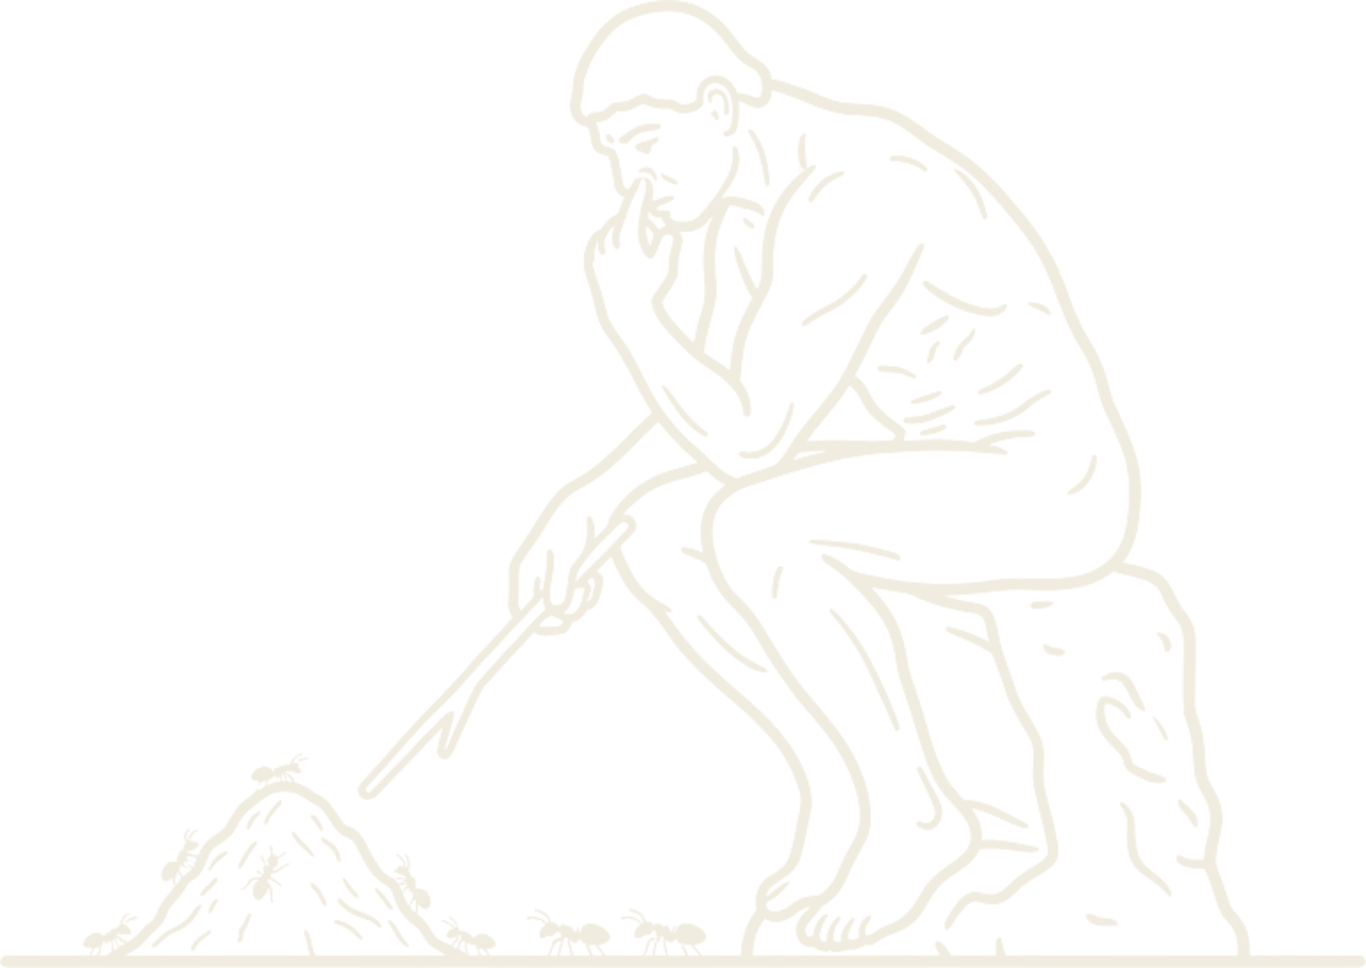
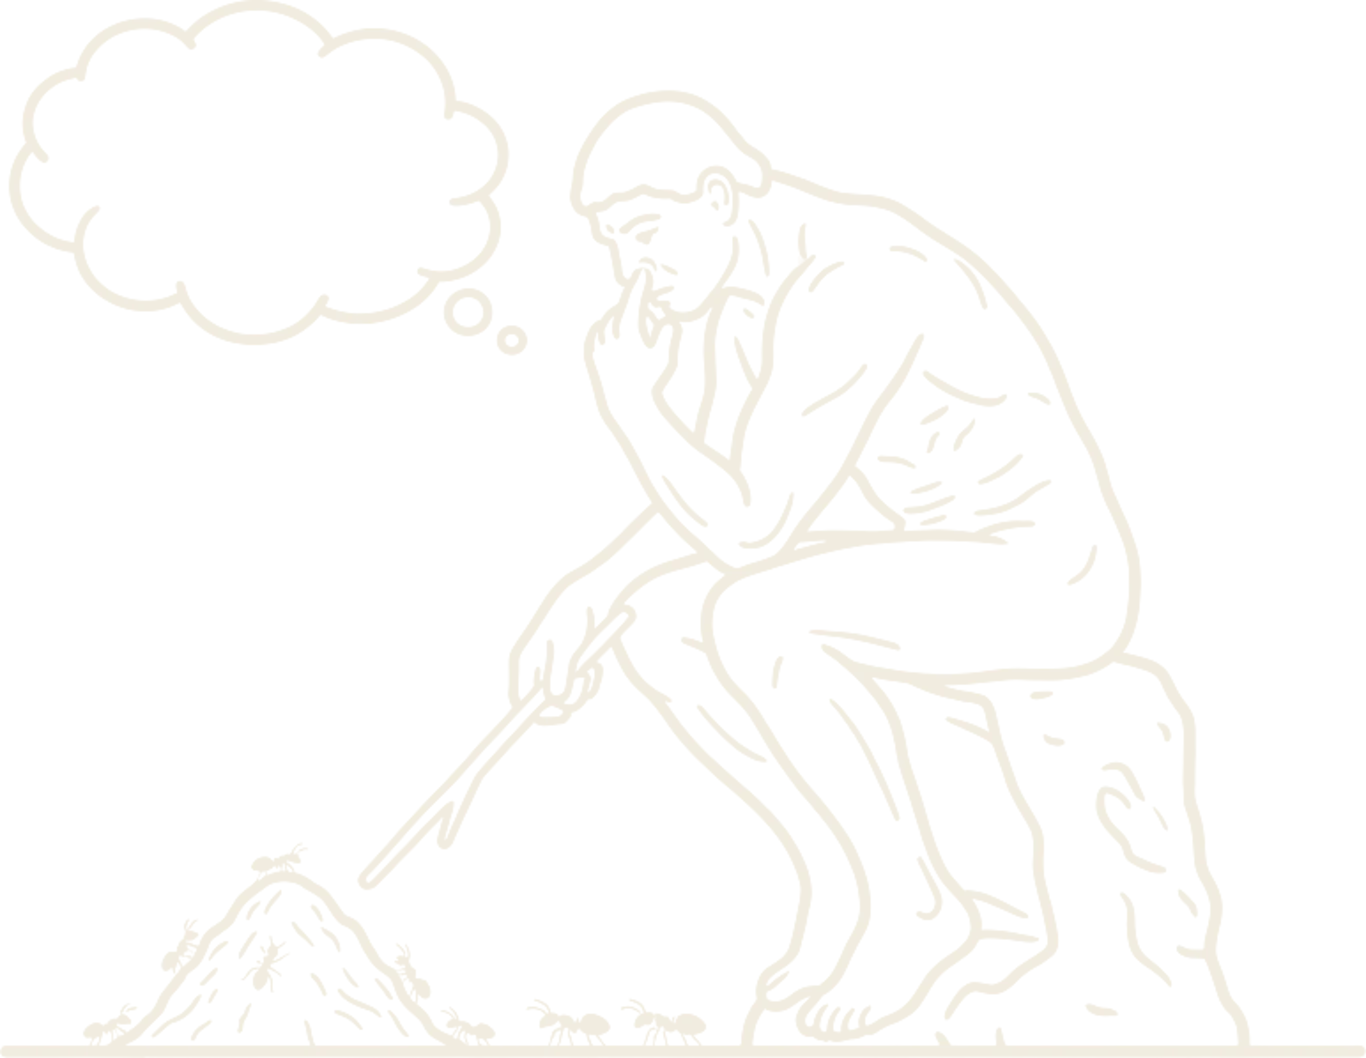
home: v2 figure with a cycling thought bubble
Swap the hero art for stupid-thinker2 (same figure, now with a thought
bubble) and overlay a configurable thought that cycles through HERO_THOUGHTS.

- scripts/process-home-figure.sh now processes imgs/stupid-thinker2.jpg
  (override via arg); the -flop is kept, which moves the bubble to the
  upper-left of the output.
- Bubble interior measured from the processed knockout (enclosed-region
  detection): L1.5% T1.1% W34.9% H30.3%. The overlay sits there and is
  sized in container units.
- Each comment is laid out whole (no reflow) and its words fade in one at
  a time with a staggered delay (300ms stagger, 400ms fade, 2s hold) —
  opacity only, no movement.
- Text size is clamp(14px, 4.2cqw, 18px) and the figure is a touch wider
  (92vw/600px mobile, 46vw/680px wide) so the words sit inside the bubble.
- HERO_THOUGHTS in data.ts is the editable rotation.
- Ignore .playwright-mcp/ (MCP snapshots).

diff --git a/src/routes/+page.svelte b/src/routes/+page.svelte
@@ -1,11 +1,35 @@
 <script lang="ts">
-	import { onMount } from 'svelte';
+	import { onMount, onDestroy } from 'svelte';
 	import { hasSeenLesson } from '$lib/gates';
-	import { LANDING_TEASER, REENTRY_LINK } from '$lib/data';
+	import { LANDING_TEASER, REENTRY_LINK, HERO_THOUGHTS } from '$lib/data';
 
 	let seen = $state(false);
+	// The whole comment is laid out at once and each word fades in with a staggered
+	// delay (CSS below), so the bubble never reflows. This timer just advances to
+	// the next comment once the current one has fully revealed and been held.
+	let thoughtIndex = $state(0);
+	let thoughtTimer: ReturnType<typeof setTimeout> | undefined;
+
+	const WORD_STAGGER = 300; // keep in sync with the .word animation-delay
+	const WORD_FADE = 400;
+	const HOLD = 2000;
+
+	function scheduleNext() {
+		const words = HERO_THOUGHTS[thoughtIndex].split(' ');
+		const revealMs = (words.length - 1) * WORD_STAGGER + WORD_FADE;
+		thoughtTimer = setTimeout(() => {
+			thoughtIndex = (thoughtIndex + 1) % HERO_THOUGHTS.length;
+			scheduleNext();
+		}, revealMs + HOLD);
+	}
+
 	onMount(() => {
 		seen = hasSeenLesson();
+		scheduleNext();
+	});
+
+	onDestroy(() => {
+		if (thoughtTimer) clearTimeout(thoughtTimer);
 	});
 
 	// Auto-fit the hero: shrink the type until the whole page fits the viewport,
@@ -54,11 +78,18 @@
 				<img
 					src="/images/home/stupid-thinker-900.webp"
 					srcset="/images/home/stupid-thinker-600.webp 600w, /images/home/stupid-thinker-900.webp 900w, /images/home/stupid-thinker-1366.webp 1366w"
-					sizes="(min-width: 1024px) min(42vw, 620px), min(72vw, 440px)"
+					sizes="(min-width: 1024px) min(46vw, 680px), min(92vw, 600px)"
 					width="900"
-					height="638"
+					height="697"
 					alt=""
 				/>
+				{#key thoughtIndex}
+					<figcaption class="thought">
+						{#each HERO_THOUGHTS[thoughtIndex].split(' ') as word, i (i)}
+							<span class="word" style:--i="{i}">{word}</span>
+						{/each}
+					</figcaption>
+				{/key}
 			</figure>
 		</div>
 	</div>
@@ -85,12 +116,51 @@
 		padding: calc(16px * var(--hero-scale, 1)) 0 0;
 	}
 	.hero-figure {
-		width: calc(min(88vw, 560px) * var(--hero-scale, 1));
+		position: relative;
+		container-type: inline-size;
+		width: calc(min(92vw, 600px) * var(--hero-scale, 1));
 		margin: auto auto 0;
 		display: flex;
 		align-items: flex-end;
 		justify-content: center;
 		pointer-events: none;
+	}
+	/* Thought-bubble text, laid over the bubble baked into the v2 art. The bubble
+	   interior sits at L1.5% T1.1% W34.9% H30.3% of the image (measured from the
+	   processed knockout), and the type is in container units so it tracks the
+	   figure at every width. Content comes from HERO_THOUGHT. */
+	.thought {
+		position: absolute;
+		left: 1.5%;
+		top: 1.1%;
+		width: 34.9%;
+		height: 30.3%;
+		display: flex;
+		flex-wrap: wrap;
+		align-content: center;
+		align-items: center;
+		justify-content: center;
+		gap: 0.35em;
+		overflow: hidden;
+		font-size: clamp(14px, 4.2cqw, 18px);
+		line-height: 1.15;
+		letter-spacing: 0.04em;
+		color: var(--paper);
+	}
+	/* All words are present from the start (so the layout is stable) and each
+	   fades in after the previous one — no movement, just opacity. The stagger
+	   must match WORD_STAGGER in the script. */
+	.word {
+		animation: word-fade 400ms ease both;
+		animation-delay: calc(var(--i) * 300ms);
+	}
+	@keyframes word-fade {
+		from {
+			opacity: 0;
+		}
+		to {
+			opacity: 1;
+		}
 	}
 	.hero-figure img {
 		display: block;
@@ -112,14 +182,13 @@
 			position: absolute;
 			bottom: calc(16px * var(--hero-scale, 1));
 			right: 0;
-			width: min(42vw, 620px);
+			width: min(46vw, 680px);
 			margin: 0;
 			display: block;
 		}
 		.hero-figure img { max-height: 66vh; }
 	}
 
-	.landing-main { padding: calc(16px * var(--hero-scale, 1)) 0; }
 	/* line-height < 1 makes Anton's caps overflow the line box and collide with
 	   the eyebrow; the top margin buys that space back. */
 	.landing .page-title {

diff --git a/src/lib/data.ts b/src/lib/data.ts
@@ -170,6 +170,18 @@ export const SKIP_LINE = 'skip →';
 export const SKIP_COPY = 'you skipped the one part that would have helped';
 export const REENTRY_LINK = "what's an idiot, actually? ↗";
 
+// Comments the home hero's thought bubble cycles through (the v2 figure art).
+// Short and dumb on purpose — the bubble is small, so keep each entry brief.
+// Lowercase to match the app voice. Change this array to change the rotation.
+export const HERO_THOUGHTS: string[] = [
+	"they're eating the dogs..",
+	"they're eating the cats..",
+	'covfefe.. what does it mean...',
+	"i'm a very stable genius",
+	'smart people hate me',
+	'stupid people love me'
+];
+
 // Image id per beat (index-aligned with LESSON_BEATS), per IMAGE-BRIEF.md §2.
 // Decorative texture — never content, always rendered alt="" / aria-hidden.
 export const BEAT_IMAGE_IDS: string[] = [
